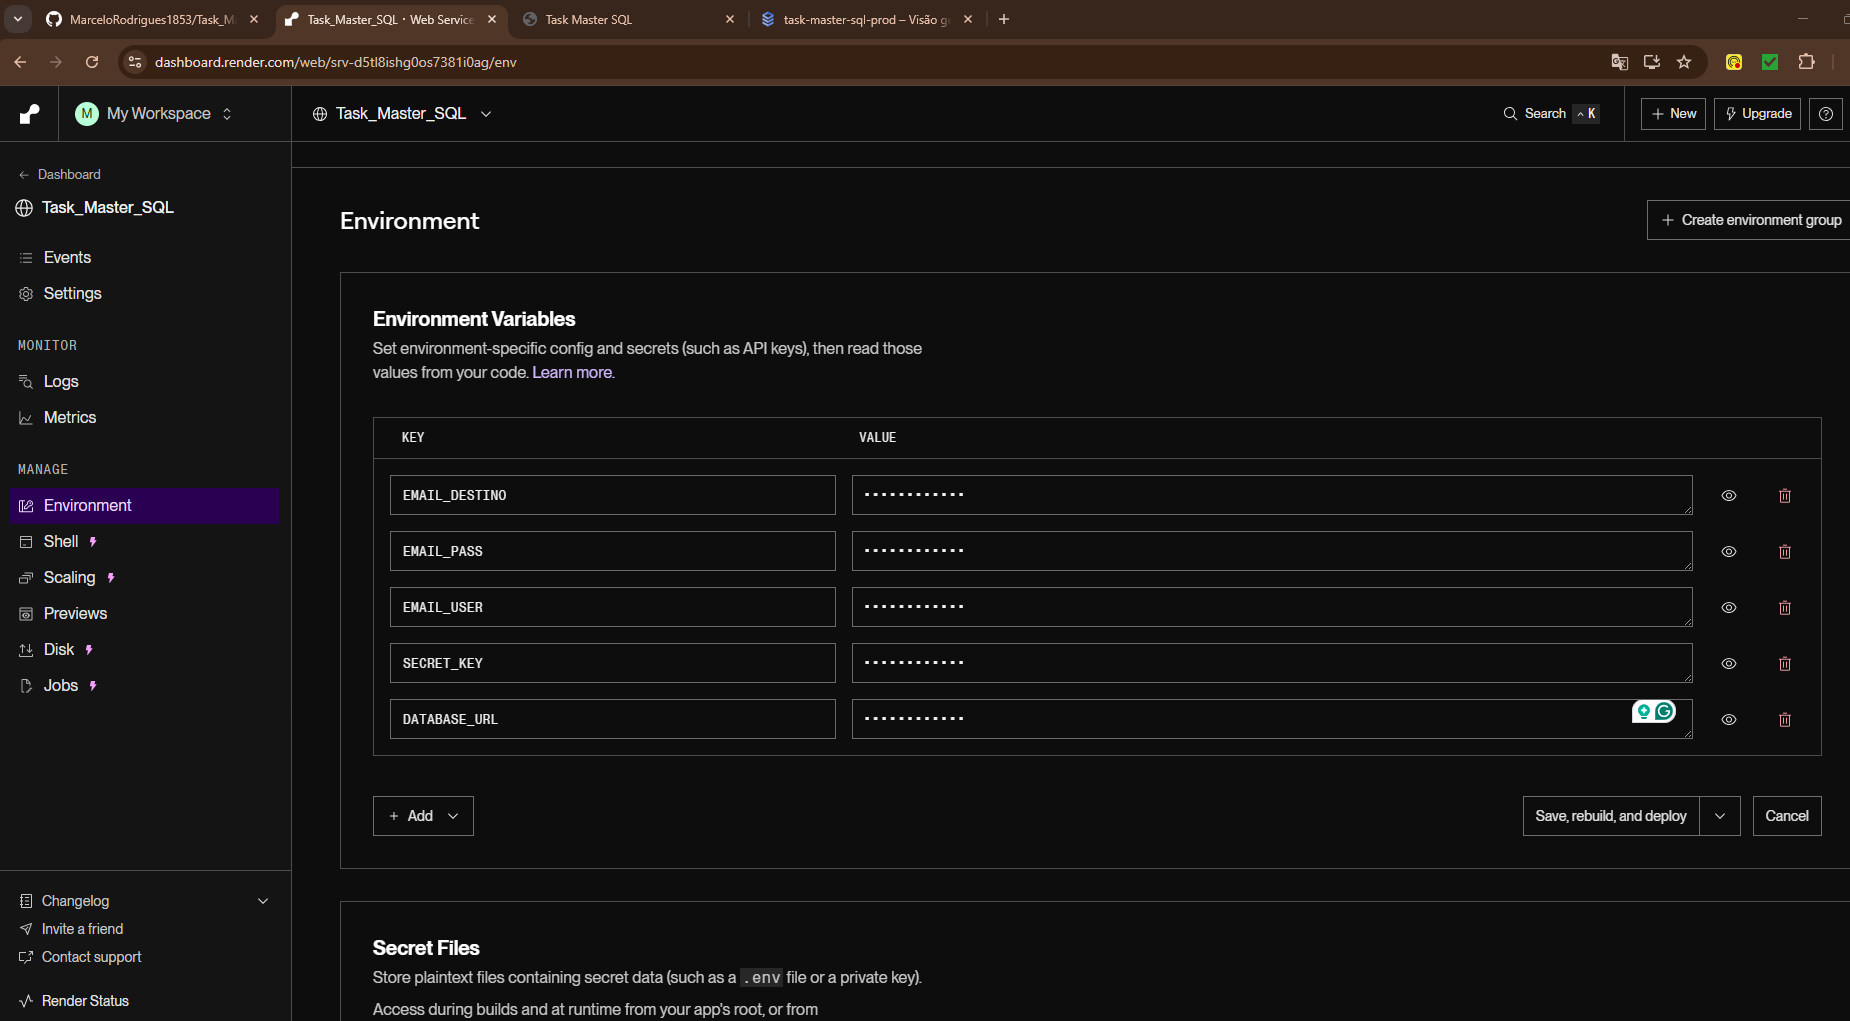
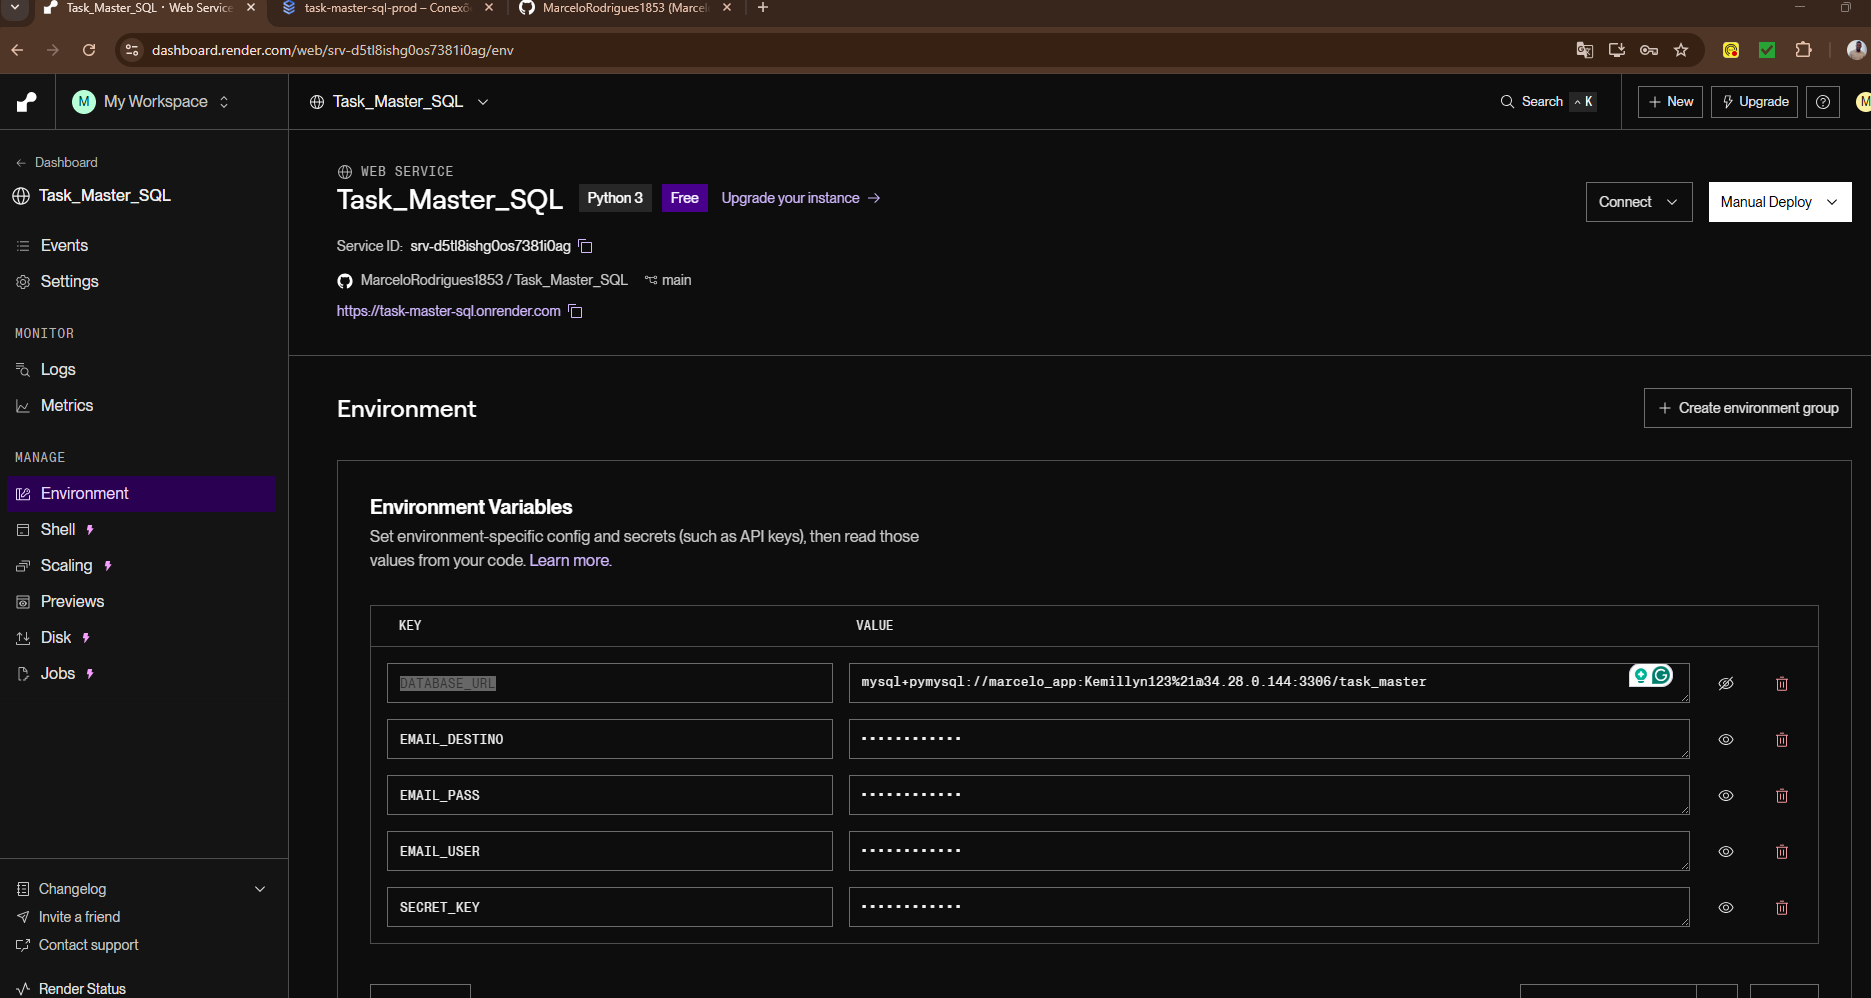
fix: correção sincronia render com db gcloud

diff --git a/app.py b/app.py
@@ -8,13 +8,21 @@ from werkzeug.security import generate_password_hash, check_password_hash
 pymysql.install_as_MySQLdb()
 
 app = Flask(__name__)
-# Segurança: A SECRET_KEY protege as sessões
-app.secret_key = os.environ.get('SECRET_KEY', 'marcelo-cs-2026-v33-full')
 
-# Configuração de Banco: Prioriza Nuvem (Render) e aceita SQLite local
-uri = os.environ.get('DATABASE_URL', 'sqlite:///database.db')
-app.config['SQLALCHEMY_DATABASE_URI'] = uri
-app.config['SQLALCHEMY_TRACK_MODIFICATIONS'] = False
+# Segurança: A SECRET_KEY protege as sessões
+app.secret_key = os.environ.get("SECRET_KEY", "marcelo-cs-2026-v33-full")
+
+# Configuração do Banco
+# - Em produção (Render): usa DATABASE_URL
+# - Local (sem DATABASE_URL): cai pro SQLite
+uri = os.environ.get("DATABASE_URL", "sqlite:///database.db")
+
+# Render às vezes fornece postgres://, aqui não é seu caso, mas fica pronto
+if uri.startswith("postgres://"):
+    uri = uri.replace("postgres://", "postgresql://", 1)
+
+app.config["SQLALCHEMY_DATABASE_URI"] = uri
+app.config["SQLALCHEMY_TRACK_MODIFICATIONS"] = False
 
 db = SQLAlchemy(app)
 
@@ -23,93 +31,129 @@ class Usuario(db.Model):
     id = db.Column(db.Integer, primary_key=True)
     nome_usuario = db.Column(db.String(80), unique=True, nullable=False)
     senha_hash = db.Column(db.String(200), nullable=False)
-    tarefas = db.relationship('Tarefa', backref='autor', lazy=True)
+    tarefas = db.relationship("Tarefa", backref="autor", lazy=True)
 
 class Tarefa(db.Model):
     id = db.Column(db.Integer, primary_key=True)
     texto = db.Column(db.String(200), nullable=False)
     feito = db.Column(db.Boolean, default=False)
-    prioridade = db.Column(db.Integer, default=2) 
-    usuario_id = db.Column(db.Integer, db.ForeignKey('usuario.id'), nullable=False)
+    prioridade = db.Column(db.Integer, default=2)
+    usuario_id = db.Column(db.Integer, db.ForeignKey("usuario.id"), nullable=False)
 
-with app.app_context():
-    db.create_all()
+# IMPORTANTE:
+# Não criar tabelas no boot em produção (Render).
+# Isso pode derrubar o deploy se o banco atrasar 1 segundo.
+if os.environ.get("RENDER") is None:
+    with app.app_context():
+        db.create_all()
 
 # --- ROTAS PRINCIPAIS ---
-@app.route('/')
+@app.route("/")
 def index():
-    if 'user_id' not in session: return redirect(url_for('login'))
-    busca = request.args.get('q', '')
-    query = Tarefa.query.filter_by(usuario_id=session['user_id'])
-    if busca: query = query.filter(Tarefa.texto.contains(busca))
+    if "user_id" not in session:
+        return redirect(url_for("login"))
+
+    busca = request.args.get("q", "")
+    query = Tarefa.query.filter_by(usuario_id=session["user_id"])
+    if busca:
+        query = query.filter(Tarefa.texto.contains(busca))
+
     tarefas = query.order_by(Tarefa.prioridade.desc()).all()
-    
+
     total = len(tarefas)
     concluidas = len([t for t in tarefas if t.feito])
     p = int((concluidas / total) * 100) if total > 0 else 0
-    return render_template('index.html', tarefas=tarefas, progresso=p, busca=busca, tela='app', nome=session.get('user_nome'))
 
-@app.route('/adicionar', methods=['POST'])
+    return render_template(
+        "index.html",
+        tarefas=tarefas,
+        progresso=p,
+        busca=busca,
+        tela="app",
+        nome=session.get("user_nome"),
+    )
+
+@app.route("/adicionar", methods=["POST"])
 def adicionar():
-    if 'user_id' in session:
-        db.session.add(Tarefa(texto=request.form.get('texto_tarefa'), 
-                             prioridade=int(request.form.get('prioridade', 2)), 
-                             usuario_id=session['user_id']))
+    if "user_id" in session:
+        db.session.add(
+            Tarefa(
+                texto=request.form.get("texto_tarefa"),
+                prioridade=int(request.form.get("prioridade", 2)),
+                usuario_id=session["user_id"],
+            )
+        )
         db.session.commit()
-    return redirect(url_for('index'))
+    return redirect(url_for("index"))
 
-@app.route('/editar/<int:id>', methods=['GET', 'POST'])
+@app.route("/editar/<int:id>", methods=["GET", "POST"])
 def editar(id):
-    if 'user_id' not in session: return redirect(url_for('login'))
-    tarefa = db.session.get(Tarefa, id)
-    if request.method == 'POST':
-        tarefa.texto = request.form.get('texto_tarefa')
-        tarefa.prioridade = int(request.form.get('prioridade'))
-        db.session.commit()
-        return redirect(url_for('index'))
-    tarefas = Tarefa.query.filter_by(usuario_id=session['user_id']).all()
-    return render_template('index.html', tarefas=tarefas, tarefa_edit=tarefa, tela='app', nome=session.get('user_nome'))
+    if "user_id" not in session:
+        return redirect(url_for("login"))
 
-@app.route('/deletar/<int:id>')
+    tarefa = db.session.get(Tarefa, id)
+
+    if request.method == "POST":
+        tarefa.texto = request.form.get("texto_tarefa")
+        tarefa.prioridade = int(request.form.get("prioridade"))
+        db.session.commit()
+        return redirect(url_for("index"))
+
+    tarefas = Tarefa.query.filter_by(usuario_id=session["user_id"]).all()
+    return render_template(
+        "index.html",
+        tarefas=tarefas,
+        tarefa_edit=tarefa,
+        tela="app",
+        nome=session.get("user_nome"),
+    )
+
+@app.route("/deletar/<int:id>")
 def deletar(id):
     t = db.session.get(Tarefa, id)
-    if t and t.usuario_id == session.get('user_id'):
+    if t and t.usuario_id == session.get("user_id"):
         db.session.delete(t)
         db.session.commit()
-    return redirect(url_for('index'))
+    return redirect(url_for("index"))
 
-@app.route('/completar/<int:id>')
+@app.route("/completar/<int:id>")
 def completar(id):
     t = db.session.get(Tarefa, id)
-    if t and t.usuario_id == session.get('user_id'):
+    if t and t.usuario_id == session.get("user_id"):
         t.feito = not t.feito
         db.session.commit()
-    return redirect(url_for('index'))
+    return redirect(url_for("index"))
 
-@app.route('/login', methods=['GET', 'POST'])
+@app.route("/login", methods=["GET", "POST"])
 def login():
-    if request.method == 'POST':
-        user = Usuario.query.filter_by(nome_usuario=request.form.get('usuario')).first()
-        if user and check_password_hash(user.senha_hash, request.form.get('senha')):
-            session['user_id'], session['user_nome'] = user.id, user.nome_usuario
-            return redirect(url_for('index'))
-        flash('Erro de acesso.')
-    return render_template('index.html', tela='login')
+    if request.method == "POST":
+        user = Usuario.query.filter_by(nome_usuario=request.form.get("usuario")).first()
+        if user and check_password_hash(user.senha_hash, request.form.get("senha")):
+            session["user_id"] = user.id
+            session["user_nome"] = user.nome_usuario
+            return redirect(url_for("index"))
+        flash("Erro de acesso.")
+    return render_template("index.html", tela="login")
 
-@app.route('/cadastro', methods=['GET', 'POST'])
+@app.route("/cadastro", methods=["GET", "POST"])
 def cadastro():
-    if request.method == 'POST':
-        nome = request.form.get('usuario')
+    if request.method == "POST":
+        nome = request.form.get("usuario")
         if not Usuario.query.filter_by(nome_usuario=nome).first():
-            db.session.add(Usuario(nome_usuario=nome, senha_hash=generate_password_hash(request.form.get('senha'))))
+            db.session.add(
+                Usuario(
+                    nome_usuario=nome,
+                    senha_hash=generate_password_hash(request.form.get("senha")),
+                )
+            )
             db.session.commit()
-            return redirect(url_for('login'))
-    return render_template('index.html', tela='cadastro')
+            return redirect(url_for("login"))
+    return render_template("index.html", tela="cadastro")
 
-@app.route('/logout')
+@app.route("/logout")
 def logout():
     session.clear()
-    return redirect(url_for('login'))
+    return redirect(url_for("login"))
 
-if __name__ == '__main__':
+if __name__ == "__main__":
     app.run(debug=True)
